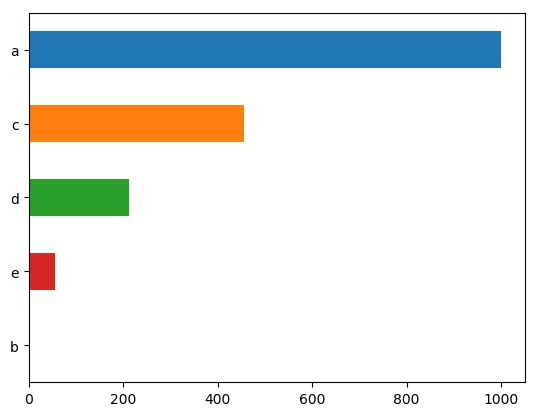
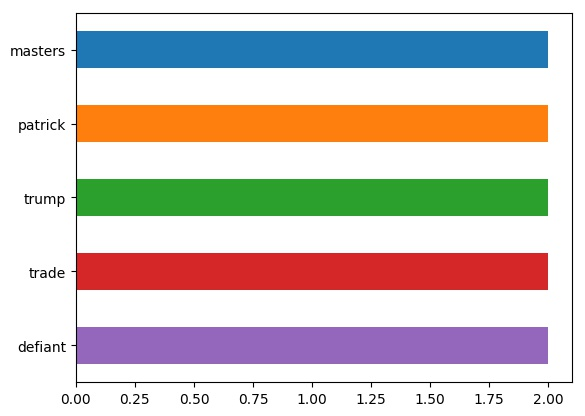
chg: connect model and ui

diff --git a/cs_299/ui/Graphics.py b/cs_299/ui/Graphics.py
@@ -2,18 +2,21 @@ import tkinter as tk
 from tkinter import ttk
 import matplotlib
 matplotlib.use('TkAgg')
-import matplotlib.pyplot as plt; plt.rcdefaults()
+import matplotlib.pyplot as plt
+plt.rcdefaults()
 from PIL import Image, ImageTk
 import pandas as pd
 
-'''-----------------------------------------'''
+from cs_299.model import TweetQuery
+tweet_query = TweetQuery()
+
+
 def main():
     win = tk.Tk()
     win.title("Twitter Word Frequency")
 
-    label=ttk.Label(win, text='User Handel')
+    label = ttk.Label(win, text='User Handel')
     label.grid(column=0, row=0)
-    #label.pack(pady=10, padx=10)
 
     ttk.Label(win, text="Enter a name:").grid(column=0, row=0)
 
@@ -26,29 +29,28 @@ def main():
     panel = tk.Label(win, image=img)
     panel.grid(column=0, row=2)
 
-
-
     but= ttk.Button(win, text="click", command=lambda: clicked(name.get(), panel))
     but.grid(column=1, row=1)
 
     win.mainloop()
-def clicked(user, pan):
-    global check
-    print(user)
-    wordCount = {"a": 1000, "b": 2, 'c': 456, 'd': 213, 'e': 56}
 
-    """wordCount = functionName(user)"""
+
+def clicked(user, pan):
+    global tweet_query
+    print(user)
+    wordCount = tweet_query.get_most_frequent_words(user, 5)
+    print(wordCount)
     makeGraph(wordCount)
 
-
-    imgUpdate= ImageTk.PhotoImage(Image.open("wordCountRELOAD.jpg"))
+    imgUpdate = ImageTk.PhotoImage(Image.open("wordCountRELOAD.jpg"))
     pan.configure(image=imgUpdate)
     pan.image = imgUpdate
+
+
 def makeGraph(dic):
     s = pd.Series(dic)
     s=s.sort_values(ascending=False)
     print(s)
-
 
     ax = s.iloc[:len(dic)].plot(kind="barh")
     ax.invert_yaxis()
@@ -56,4 +58,6 @@ def makeGraph(dic):
     plt.savefig('wordCountRELOAD.jpg', bbox_inches='tight')
     plt.clf()
 
-main()
+
+if __name__ == '__main__':
+    main()

diff --git a/cs_299/model/__init__.py b/cs_299/model/__init__.py
@@ -1,0 +1,1 @@
+from cs_299.model.__main__ import TweetQuery, TweetProcessor
